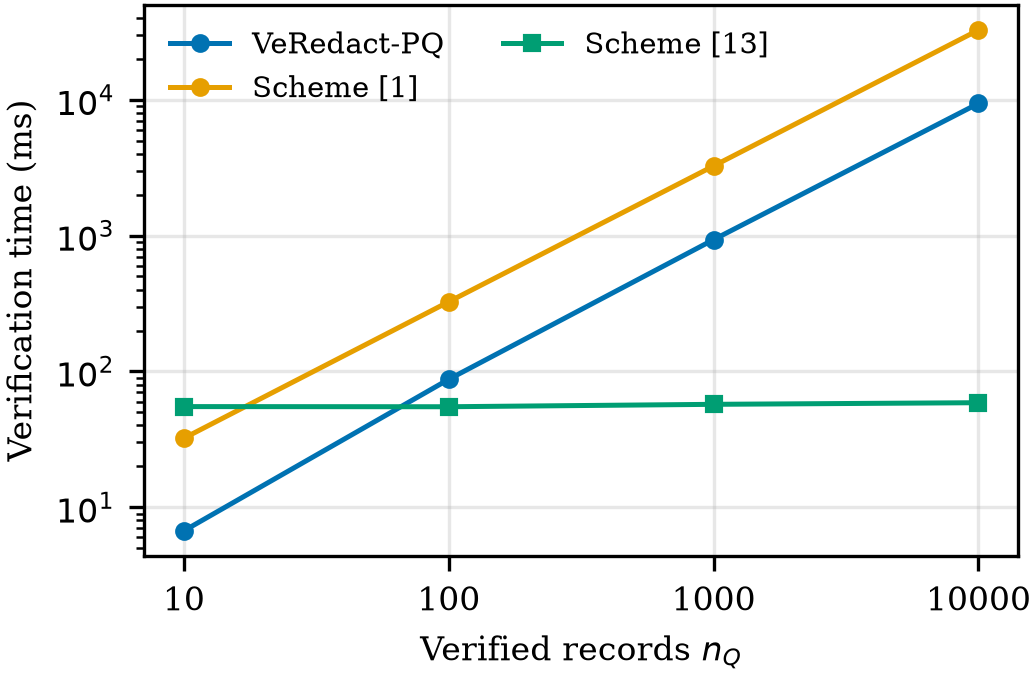
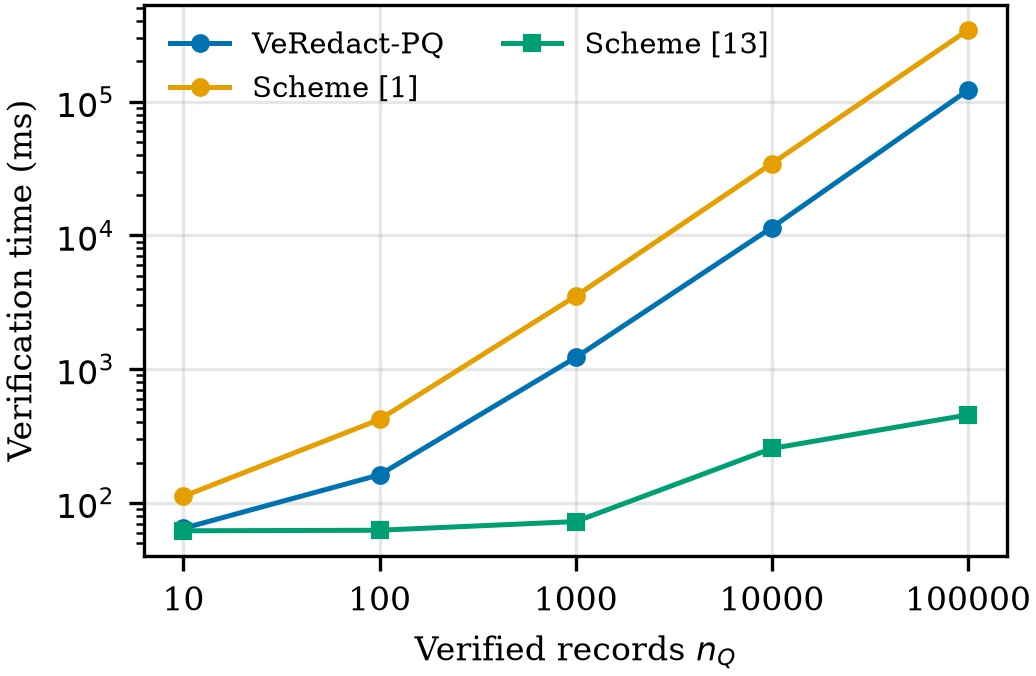
Exp. 4 rerun (anchoring-block reads) fetched; blue manuscript Exp. 4 text and figure; handoff and task log updated

diff --git a/Overleaf/revised/VeRedact-2-blue.tex b/Overleaf/revised/VeRedact-2-blue.tex
@@ -3157,12 +3157,13 @@
 
     \chg{Fig.~\ref{fig:exp4_verify} shows that normal-audit verification
     time of VeRedact-PQ grows approximately linearly with $n_Q$, from
-    6.7\,ms at $n_Q=10$ to 9.4\,s at $n_Q=10^4$, 3.5 to 4.8 times faster than
-    Ref.~\cite{ref1} (32\,ms to 32.6\,s). Ref.~\cite{ref13} verifies one
-    aggregated proof in a nearly constant 53--59\,ms and is therefore faster
-    for large queries. At $n_Q=10^4$, the state-transition and PQCH checks
-    account for 8.1\,s of the 9.4\,s, while committee approvals contribute
-    only 51\,ms ($t|\Omega_{Q_j}^B|T_V$); routine audits therefore rely only
+    64.5\,ms at $n_Q=10$ to 11.5\,s at $n_Q=10^4$ and 121.9\,s at $n_Q=10^5$,
+    1.7 to 3.0 times faster than Ref.~\cite{ref1} (111.9\,ms to 343.7\,s).
+    Ref.~\cite{ref13} verifies one aggregated proof in 62--455\,ms and is
+    therefore faster for large queries. At $n_Q=10^4$, the state-transition
+    and PQCH checks, including reading the anchored checkpoints from their
+    anchoring blocks, account for 9.9\,s of the 11.5\,s, while committee
+    approvals contribute only 59\,ms ($t|\Omega_{Q_j}^B|T_V$); routine audits therefore rely only
     on PQ-signed attestations and hash-based authentication, and complete
     PQZK verification is reserved for challenged or forensic audits.
     Because each returned record carries individual membership and

diff --git a/Overleaf/revised/perf_analysis_blue.tex b/Overleaf/revised/perf_analysis_blue.tex
@@ -334,12 +334,13 @@
 
     \chg{Fig.~\ref{fig:exp4_verify} shows that normal-audit verification
     time of VeRedact-PQ grows approximately linearly with $n_Q$, from
-    6.7\,ms at $n_Q=10$ to 9.4\,s at $n_Q=10^4$, 3.5 to 4.8 times faster than
-    Ref.~\cite{ref1} (32\,ms to 32.6\,s). Ref.~\cite{ref13} verifies one
-    aggregated proof in a nearly constant 53--59\,ms and is therefore faster
-    for large queries. At $n_Q=10^4$, the state-transition and PQCH checks
-    account for 8.1\,s of the 9.4\,s, while committee approvals contribute
-    only 51\,ms ($t|\Omega_{Q_j}^B|T_V$); routine audits therefore rely only
+    64.5\,ms at $n_Q=10$ to 11.5\,s at $n_Q=10^4$ and 121.9\,s at $n_Q=10^5$,
+    1.7 to 3.0 times faster than Ref.~\cite{ref1} (111.9\,ms to 343.7\,s).
+    Ref.~\cite{ref13} verifies one aggregated proof in 62--455\,ms and is
+    therefore faster for large queries. At $n_Q=10^4$, the state-transition
+    and PQCH checks, including reading the anchored checkpoints from their
+    anchoring blocks, account for 9.9\,s of the 11.5\,s, while committee
+    approvals contribute only 59\,ms ($t|\Omega_{Q_j}^B|T_V$); routine audits therefore rely only
     on PQ-signed attestations and hash-based authentication, and complete
     PQZK verification is reserved for challenged or forensic audits.
     Because each returned record carries individual membership and

diff --git a/HANDOFF.md b/HANDOFF.md
@@ -5,9 +5,9 @@ Branch `s99-leta-exp1-latency`, state of 23 October 2026.
 > **Do not run anything on AWS without the author's explicit yes for that specific action** (booting the
 > server, tests there, reruns, prover machines, moving or deleting results). One yes covers one action.
 
-**In short:** every experiment has run once at the final scale. VeRedact-PQ's Experiment 4 was rerun after a bug
-fix and its result has not been read yet. Experiment 1 was re-planned on 23 Oct (new rates, latency drawn only
-where fully measured, see §4.2); the code is ready, the rerun of all five schemes is not done yet. Everything else
+**In short:** every experiment has run once at the final scale, including VeRedact-PQ's Experiment 4 rerun after a
+bug fix (fetched and written into the paper on 24 Oct). Experiment 1 was re-planned on 23 Oct (new rates, latency drawn only
+where fully measured, see §4.1); the code is ready, the rerun of all five schemes is not done yet. Everything else
 is done, and most of the paper's results section is already updated.
 
 ## 1. What the project is
@@ -57,19 +57,19 @@ pre-built history (~100,000 redactions) for every scheme; it is saved on the ser
 
 ## 3. Status
 
-full = fully measured, partial = some values are lower bounds, pending = result not read, — = not in it.
+full = fully measured, partial = some values are lower bounds, — = not in it.
 
 | Scheme | Exp. 0 | Exp. 1 | Exp. 2 | Exp. 3 | Exp. 4 | Exp. 5 |
 |---|---|---|---|---|---|---|
-| veredact | full | partial | full | full | **pending** | full |
+| veredact | full | partial | full | full | full | full |
 | S1 | full | partial | full | full | full | full |
 | S13 | full | partial | — | full | full | full |
 | S27 | full | partial | — | — | — | full |
 | S34 | full | partial | full | — | — | full |
 | S99 | full | — | full | — | — | — |
 
-- Manuscript: blue copy has the new numbers for Experiments 0, 1, 2, 3, 5 and both tables; Experiment 4's
-  paragraph and figure are still from an older run.
+- Manuscript: blue copy has the new numbers for Experiments 0, 2, 3, 4, 5 and both tables (Exp. 1 see §4.1); its
+  PDF was last compiled before the Experiment 4 update.
 - Experiment 1 throughput is full everywhere; only its latency is partial.
 - Server stopped, nothing running. Cost of the final run series ~US$67; October ~US$225.
 - Commits `1645d0c` (cleanup) and the 23 Oct Exp. 1 change are pushed; their tests have not been run yet (they run on
@@ -77,11 +77,7 @@ full = fully measured, partial = some values are lower bounds, pending = result 
 
 ## 4. Open problems
 
-1. **Experiment 4 rerun not read.** VeRedact-PQ's auditor searched the whole chain from the start, so its cost
-   grew with the chain's age. It now reads only the blocks where its records were written (tested on real
-   Besu), and its Experiment 4 was rerun. The server then powered off; whether the rerun finished is unknown.
-   Log on the server: `Benchmark/results/logs/exp4_rerun_20261021.out`.
-2. **Experiment 1 latency was a lower bound above capacity — fix decided 23 Oct (author: option A), code done,
+1. **Experiment 1 latency was a lower bound above capacity — fix decided 23 Oct (author: option A), code done,
    rerun pending.** Requests arrive for 60 s, then the run waits 30 s; a request unfinished at the stop only gives
    a lower bound (~87 s for every overloaded scheme). Capacity (10^6 run, from the blue text; confirm from
    `metrics.json`): S27 ~130–145/s, VeRedact-PQ ~100–140/s, S1 ~65–72/s, S34 ~6/s, S13 ~5/s.
@@ -96,24 +92,24 @@ full = fully measured, partial = some values are lower bounds, pending = result 
      100–5,000 text (`% TODO` above them) — rewrite after the rerun.
    To do: rerun Exp. 1 for all five schemes (`--force`). Author chose option 1 (23 Oct): all 70 points in one run,
    provers on spot only during VeRedact-PQ's part, hard cap ~1.5x the estimate from the logs.
-3. **S13 at 5,000 req/s stopped late** (386 s instead of ~100 s): client threads were joined one after another,
+2. **S13 at 5,000 req/s stopped late** (386 s instead of ~100 s): client threads were joined one after another,
    each with its own 30 s timeout. **Fixed 23 Oct**: `join_by` gives them one shared deadline; test
    `test_exp1_clients_share_one_deadline`. Throughput was never affected (it counts only the window).
-4. **VeRedact-PQ's provers lagged at 2,000 and 5,000 req/s** — no longer in the paper: those rates were dropped.
-5. **S13's audit times are 3–7% high**: its witnesses are timed 8 at a time on separate cores; the bias is
+3. **VeRedact-PQ's provers lagged at 2,000 and 5,000 req/s** — no longer in the paper: those rates were dropped.
+4. **S13's audit times are 3–7% high**: its witnesses are timed 8 at a time on separate cores; the bias is
    against S13.
-6. **VeRedact-PQ's gas rose, cause unverified**: likely more distinct transaction batches touched per round
+5. **VeRedact-PQ's gas rose, cause unverified**: likely more distinct transaction batches touched per round
    with the larger ledger; not counted yet.
-7. **Saved histories will be rebuilt**: they are reused only if the code that builds them is byte-identical;
+6. **Saved histories will be rebuilt**: they are reused only if the code that builds them is byte-identical;
    the cleanup edited comments there, so the next run rebuilds VeRedact-PQ's (~1 h). S1's and S13's were already
    outdated by the Experiment 4 fix.
-8. **Housekeeping**: 14 old files from 29 Sep in the root of `Benchmark/results/` on the server should move to a
+7. **Housekeeping**: 14 old files from 29 Sep in the root of `Benchmark/results/` on the server should move to a
    `_superseded` folder (not deleted). Checked 23 Oct: the laptop's `Benchmark/results/` is empty and the laptop's
    git stash is empty, so nothing is left to do locally.
 
 ## 5. Decisions needed from the author
 
-- **A. Experiment 1 latency — decided 23 Oct**: latency only where fully measured; rates 1–1,000 req/s, the same for every scheme (§4.2).
+- **A. Experiment 1 latency — decided 23 Oct**: latency only where fully measured; rates 1–1,000 req/s, the same for every scheme (§4.1).
 - **B. S13 witnesses.** Re-time one at a time (removes the bias, ~8x longer for that step), or keep and state
   the bias in one sentence.
 - **C. VeRedact-PQ provers at high rates — resolved 23 Oct** by dropping 2,000 and 5,000 req/s.
@@ -125,15 +121,12 @@ full = fully measured, partial = some values are lower bounds, pending = result 
 
 1. One server boot (~30–45 min, ~US$1): read the Experiment 4 rerun log; fetch its results if finished; run
    `remote.sh '.venv/bin/ruff check src scripts tests && .venv/bin/python -m pytest -q'`; count batches per round
-   for the gas question.
-2. If the rerun did not finish: propose rerunning VeRedact-PQ's Experiment 4 (~2–3 h incl. history rebuild).
-3. Write Experiment 4 into the blue manuscript, copy its figure next to the tex, re-extract
-   `perf_analysis_blue.tex`, compile on the server.
-4. Experiment 1 (code done 23 Oct): in the same boot confirm capacities from `metrics.json` (the lowest must stay
+   for the gas question; compile the blue PDF.
+2. Experiment 1 (code done 23 Oct): in the same boot confirm capacities from `metrics.json` (the lowest must stay
    above 4 req/s), then with a yes rerun Exp. 1 for all five schemes (provers for VeRedact-PQ); regenerate Fig. 3
    and rewrite the two Exp. 1 results paragraphs in the blue manuscript (+ `perf_analysis_blue.tex`).
-5. After B: rerun only the affected part, or add the one-sentence disclosure.
-6. Finally: `scripts/check_coverage.py --tier experiment`, tables and figures, one line in `TASK.md`, commit,
+3. After B: rerun only the affected part, or add the one-sentence disclosure.
+4. Finally: `scripts/check_coverage.py --tier experiment`, tables and figures, one line in `TASK.md`, commit,
    push.
 
 ## 7. What to read, in order

diff --git a/TASK.md b/TASK.md
@@ -163,8 +163,9 @@ results recomputed from the unchanged rows on the server (`Benchmark/scripts/res
 - 2026-10-18 — Prover start-up bias fixed (workers pre-started, clock after handshake); provers on spot first.
 - 2026-10-19 — One run (repetitions revoked); one history list for every scheme (`data/history.py`); saved histories (`evaluation/history_cache.py`); auditors read the chain (VeRedact-PQ CP_e^A + MR_b', S1 accumulator + records; S13 trusted node). Memory probe OK (`scripts/memory_probe.py`).
 - 2026-10-19..21 — **Full run, 10^6 ledger** (log `full_run_20261019.out`): hard cap hit in Exp. 4 S1, finished with a resume (`resume_20261021.out`); coverage 380/380, 0 tracebacks. Results `Benchmark/results/<exp>/<method>/experiment/`; history_id `bd71900b56549308`, saved histories server-only `results/_histories/`. ~US$60.
-- 2026-10-21 — Exp. 4 VeRedact-PQ slowed by the auditor scanning the chain since deployment; fixed: read only anchoring blocks (`anchor.py` `cp_block`). Old rows `results/_superseded_20261021_exp4_logscan/` (server). Rerun log `exp4_rerun_20261021.out`; outcome not yet read.
+- 2026-10-21 — Exp. 4 VeRedact-PQ slowed by the auditor scanning the chain since deployment; fixed: read only anchoring blocks (`anchor.py` `cp_block`). Old rows `results/_superseded_20261021_exp4_logscan/` (server). Rerun log `exp4_rerun_20261021.out`: done 21 Oct 16:29 UTC, 500/500 ok, coverage 380/380; fetched (laptop old rows also in `_superseded_20261021_exp4_logscan/`).
 - 2026-10-21 — Blue manuscript: Exp. 1, 2, 3, 5 and both tables from the 10^6 run (`Overleaf/revised/`). Exp. 4 text pending the rerun.
 - 2026-10-22 — Workspace cleanup: `resume_run.sh` -> `RESUME=1 full_run.sh`; `check_chain_reads_besu.py` -> Besu-only test in `tests/test_history.py`; `fill_history` removed; docs rows updated; `fetch_results.sh` skips `_histories`.
 - 2026-10-23 — Exp. 1 rates (author): 1, 2, 4, 10, 25, 50, 100, 250, 500, 1,000 req/s for every scheme (2,000/5,000 dropped, manuscript changed); latency drawn only where full; client join on one deadline. Code only, not run; rerun of all five schemes pending.
-- Open: Exp. 4 rerun not read; Exp. 1 rerun of all five schemes at 1–1,000 req/s (author: option 1, needs a check boot first); S13 witness timing up to 7 % high; Exp. 5 gas rise unverified; old `results/` root files (29 Sep) on the server to move aside (author yes needed).
+- 2026-10-24 — Blue manuscript: Exp. 4 text + figure from the rerun; `perf_analysis_blue.tex` re-extracted; PDF not recompiled.
+- Open: Exp. 1 rerun of all five schemes at 1–1,000 req/s (author: option 1, needs a check boot first); S13 witness timing up to 7 % high; Exp. 5 gas rise unverified; old `results/` root files (29 Sep) on the server to move aside (author yes needed).
